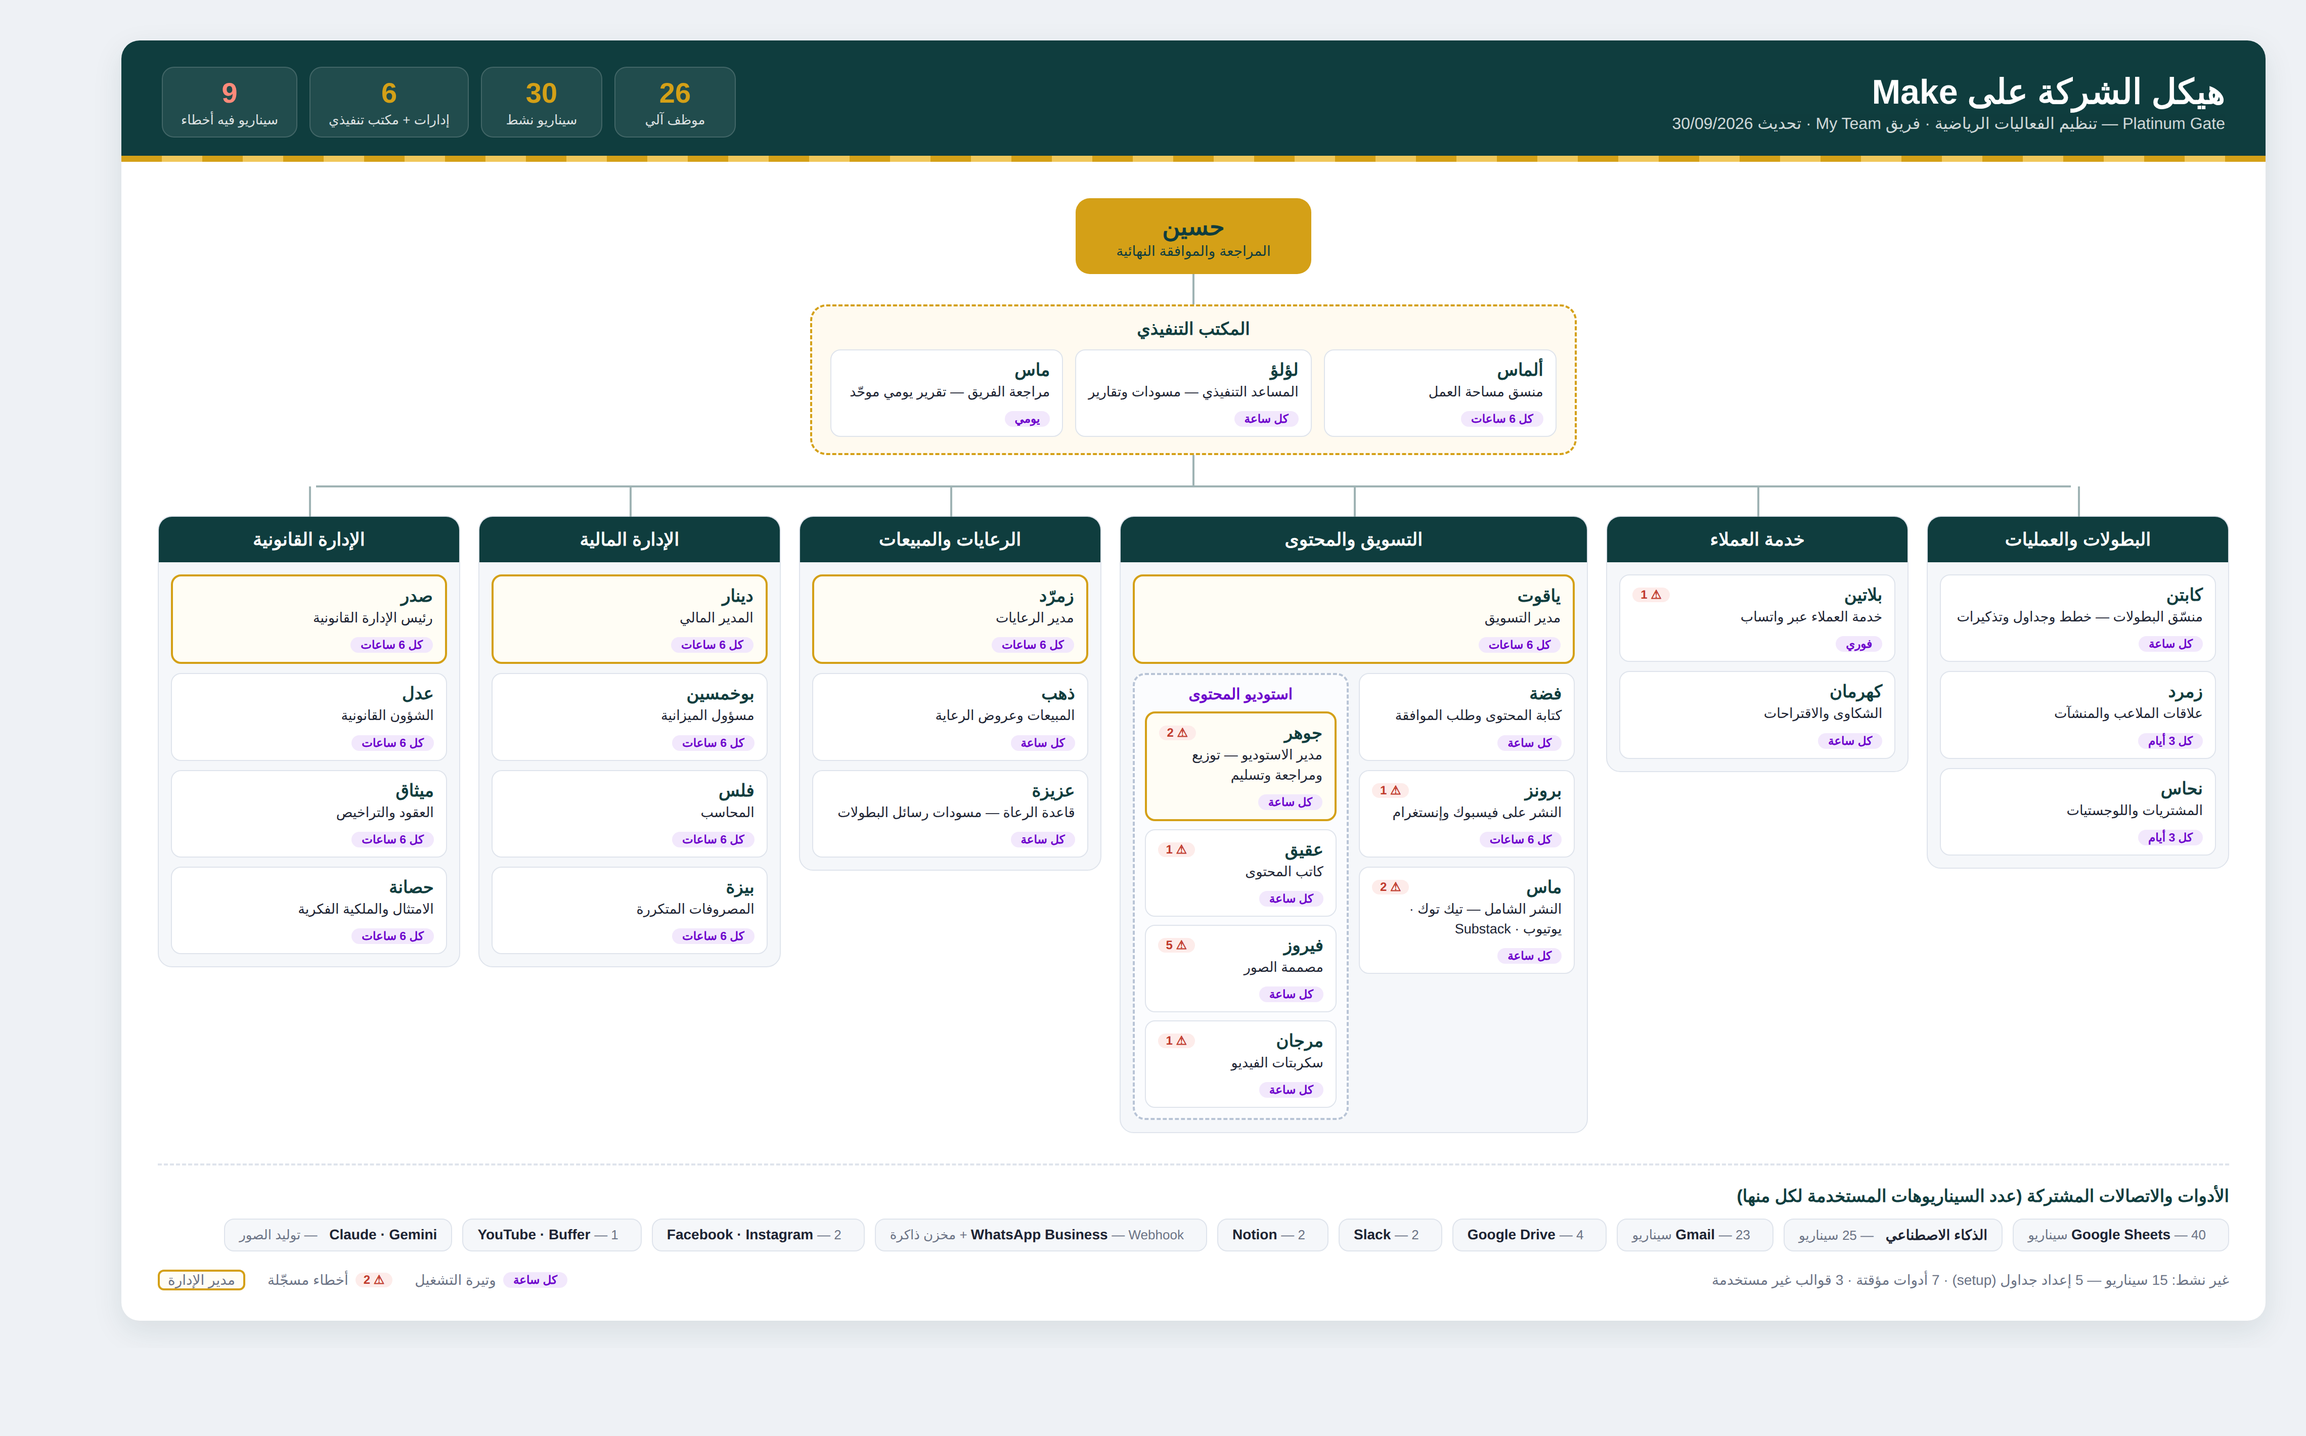
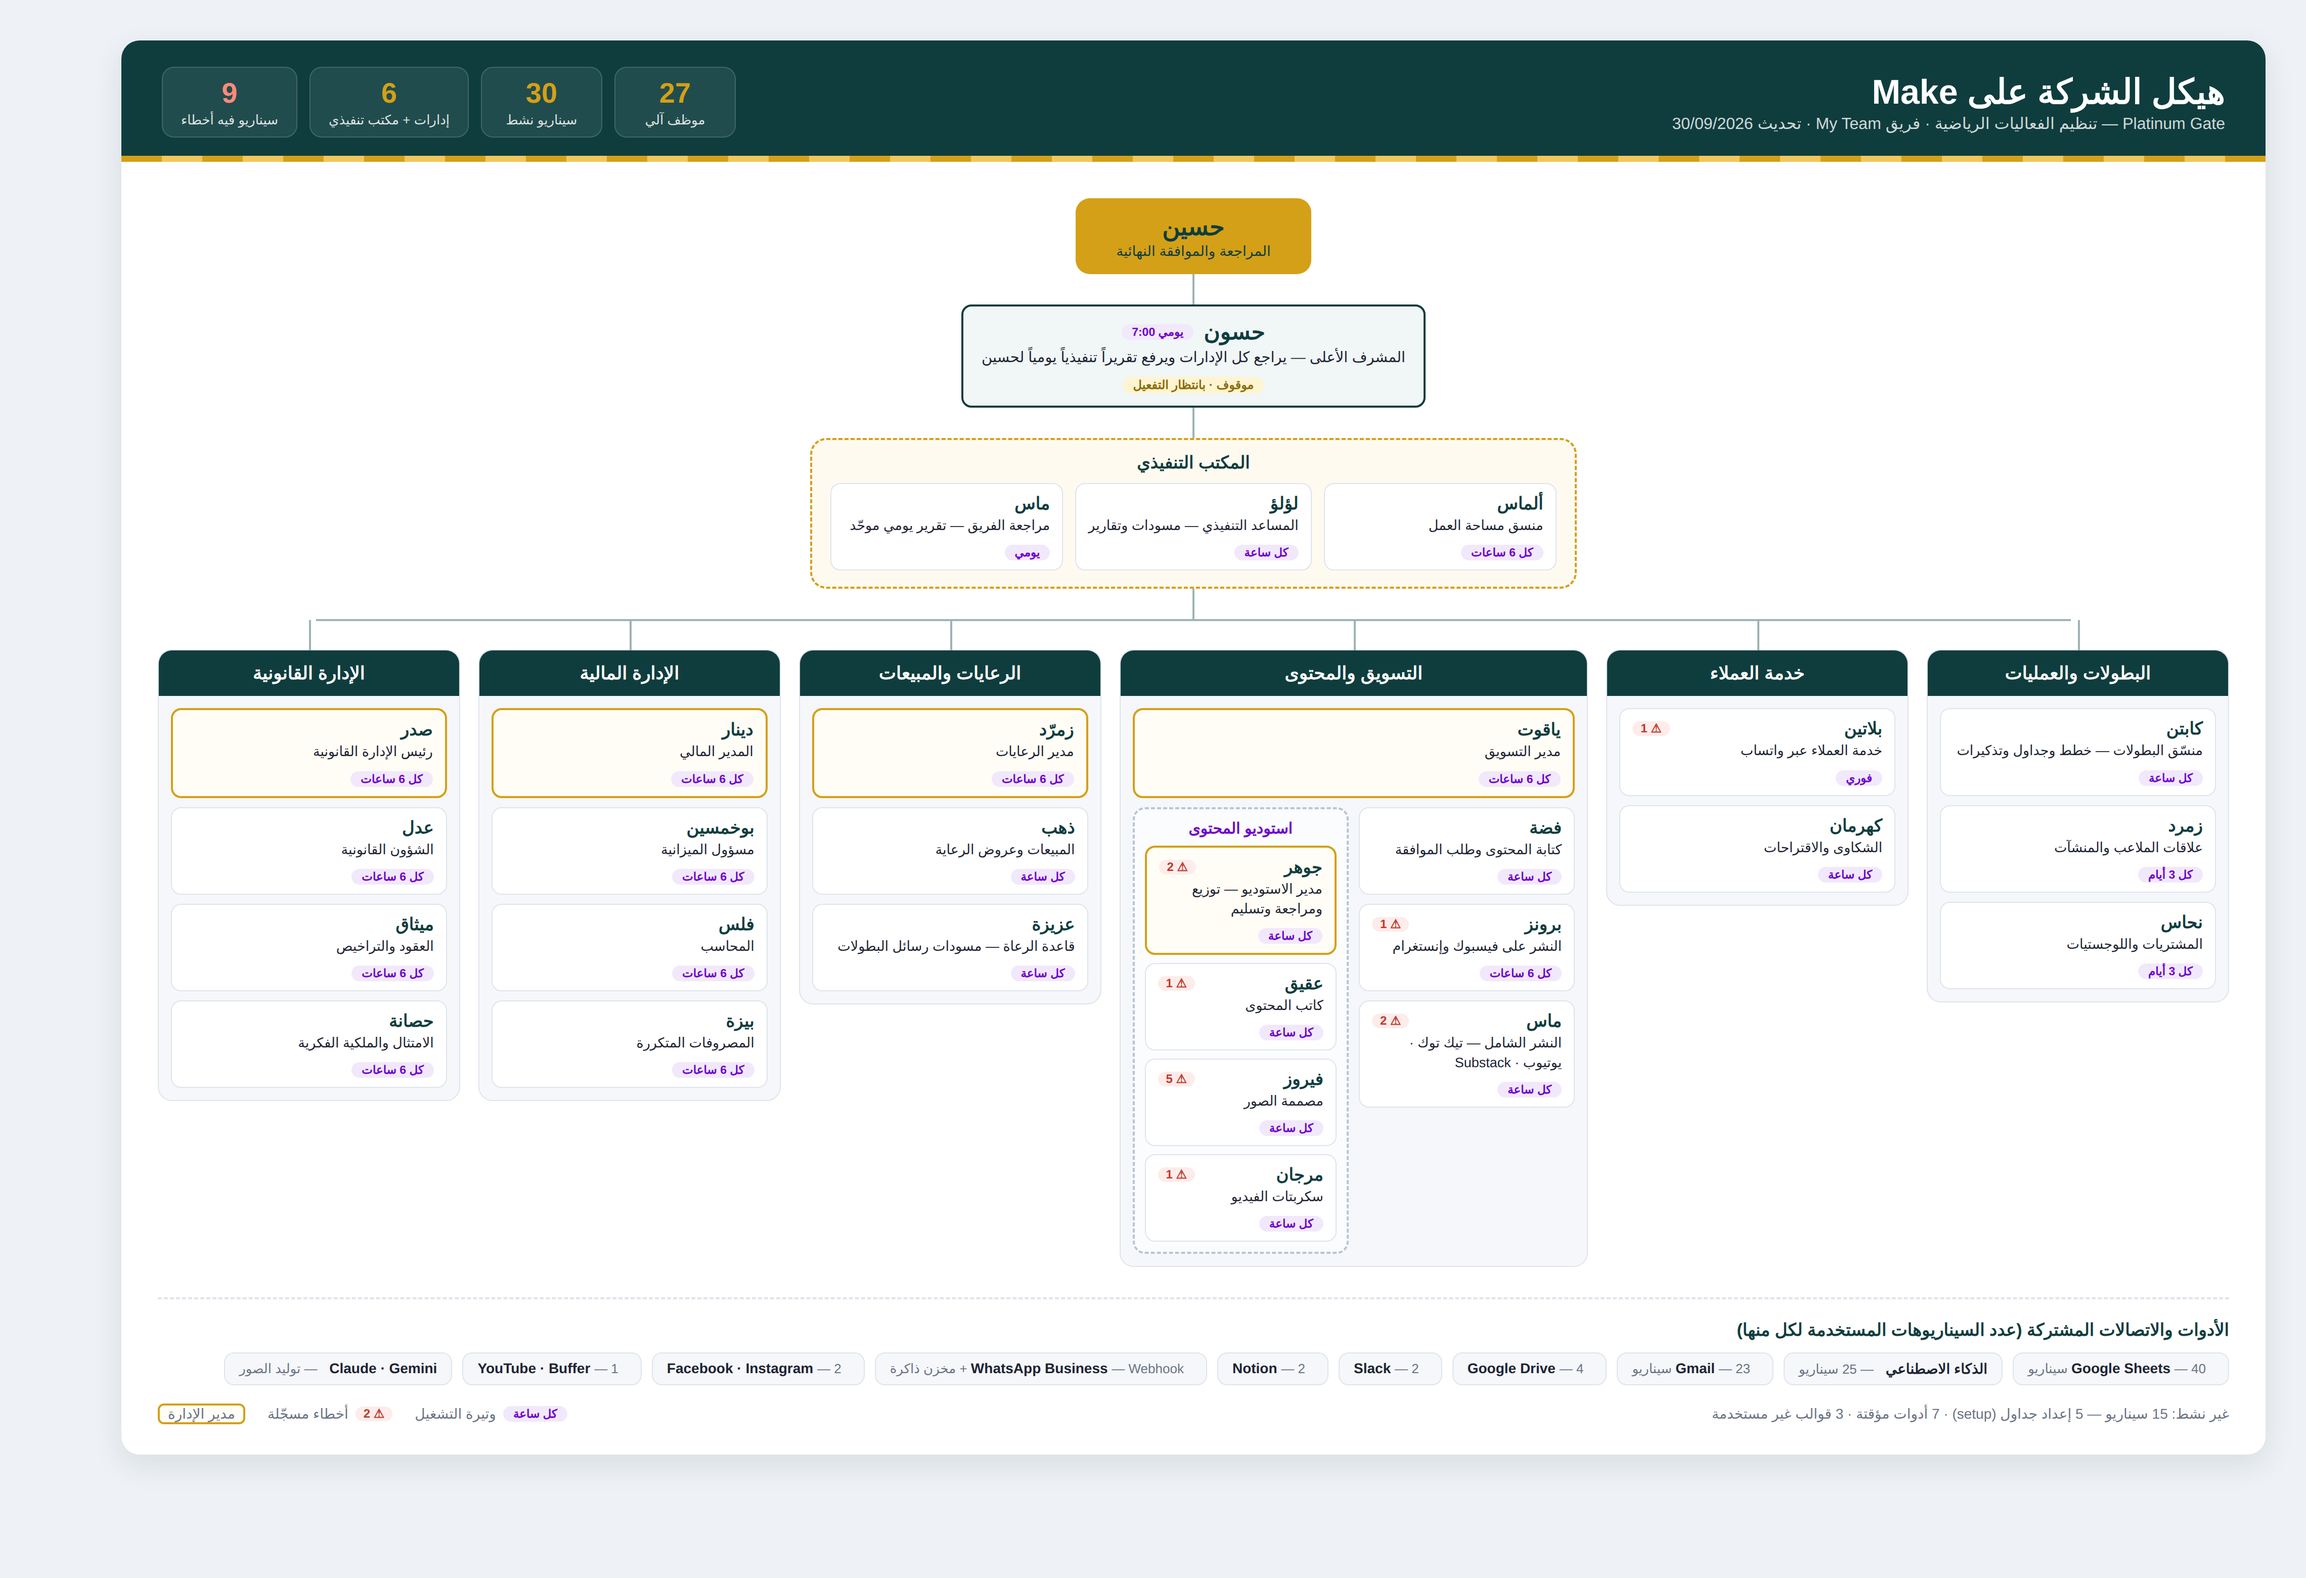
Org chart: add Hassoun as top supervisor
Claude-Session: https://claude.ai/code/session_01Xj1rFNtHNff5XxGDo3nMTH

diff --git a/make-structure/make-structure.html b/make-structure/make-structure.html
@@ -22,6 +22,10 @@
   .owner { background:var(--accent); color:var(--primary); border-radius:14px; padding:14px 40px; text-align:center; }
   .owner b { font-size:24px; font-weight:800; display:block; }
   .owner span { font-size:14px; }
+  .agent.sup { min-width:420px; text-align:center; border:2px solid var(--primary); background:#f1f6f6; padding:12px 18px; }
+  .agent.sup .nm { justify-content:center; gap:10px; font-size:22px; }
+  .agent.sup .rl { font-size:14.5px; }
+  .off { display:inline-block; font-size:12px; font-weight:700; color:#8a6d0b; background:#fff4d1; border-radius:20px; padding:1px 10px; }
   .vline { width:2px; height:30px; background:var(--line); }
 
   .exec { border:2px dashed var(--accent); background:#fffaf0; border-radius:16px; padding:12px 18px 16px; text-align:center; }
@@ -66,7 +70,7 @@
       <p>Platinum Gate — تنظيم الفعاليات الرياضية · فريق My Team · تحديث 30/09/2026</p>
     </div>
     <div class="stats">
-      <div class="stat"><b>26</b><span>موظف آلي</span></div>
+      <div class="stat"><b>27</b><span>موظف آلي</span></div>
       <div class="stat"><b>30</b><span>سيناريو نشط</span></div>
       <div class="stat"><b>6</b><span>إدارات + مكتب تنفيذي</span></div>
       <div class="stat bad"><b>9</b><span>سيناريو فيه أخطاء</span></div>
@@ -75,6 +79,8 @@
 
   <div class="chart">
     <div class="owner"><b>حسين</b><span>المراجعة والموافقة النهائية</span></div>
+    <div class="vline"></div>
+    <div class="agent sup"><div class="nm">حسون <span class="chip">يومي 7:00</span></div><div class="rl">المشرف الأعلى — يراجع كل الإدارات ويرفع تقريراً تنفيذياً يومياً لحسين</div><span class="off">موقوف · بانتظار التفعيل</span></div>
     <div class="vline"></div>
     <div class="exec">
       <div class="eh">المكتب التنفيذي</div>

diff --git a/make-structure/template.html b/make-structure/template.html
@@ -22,6 +22,10 @@
   .owner { background:var(--accent); color:var(--primary); border-radius:14px; padding:14px 40px; text-align:center; }
   .owner b { font-size:24px; font-weight:800; display:block; }
   .owner span { font-size:14px; }
+  .agent.sup { min-width:420px; text-align:center; border:2px solid var(--primary); background:#f1f6f6; padding:12px 18px; }
+  .agent.sup .nm { justify-content:center; gap:10px; font-size:22px; }
+  .agent.sup .rl { font-size:14.5px; }
+  .off { display:inline-block; font-size:12px; font-weight:700; color:#8a6d0b; background:#fff4d1; border-radius:20px; padding:1px 10px; }
   .vline { width:2px; height:30px; background:var(--line); }
 
   .exec { border:2px dashed var(--accent); background:#fffaf0; border-radius:16px; padding:12px 18px 16px; text-align:center; }
@@ -75,6 +79,8 @@
 
   <div class="chart">
     <div class="owner"><b>حسين</b><span>المراجعة والموافقة النهائية</span></div>
+    <div class="vline"></div>
+    <div class="agent sup"><div class="nm">حسون <span class="chip">يومي 7:00</span></div><div class="rl">المشرف الأعلى — يراجع كل الإدارات ويرفع تقريراً تنفيذياً يومياً لحسين</div><span class="off">موقوف · بانتظار التفعيل</span></div>
     <div class="vline"></div>
     <div class="exec">
       <div class="eh">المكتب التنفيذي</div>

diff --git a/make-structure/build.py b/make-structure/build.py
@@ -67,7 +67,7 @@ def dept(d):
     return h + "</div></div>"
 
 
-agents = len(EXEC) - 1 + sum((1 if d[1] else 0) + len(d[2]) + (1 + len(d[3][2]) if d[3] else 0) for d in DEPTS)
+agents = 1 + len(EXEC) - 1 + sum((1 if d[1] else 0) + len(d[2]) + (1 + len(d[3][2]) if d[3] else 0) for d in DEPTS)
 html = open(__file__.replace("build.py", "template.html"), encoding="utf-8").read()
 html = (html.replace("{{EXEC}}", "".join(card(a, "agent exec") for a in EXEC))
             .replace("{{DEPTS}}", "".join(dept(d) for d in DEPTS))
